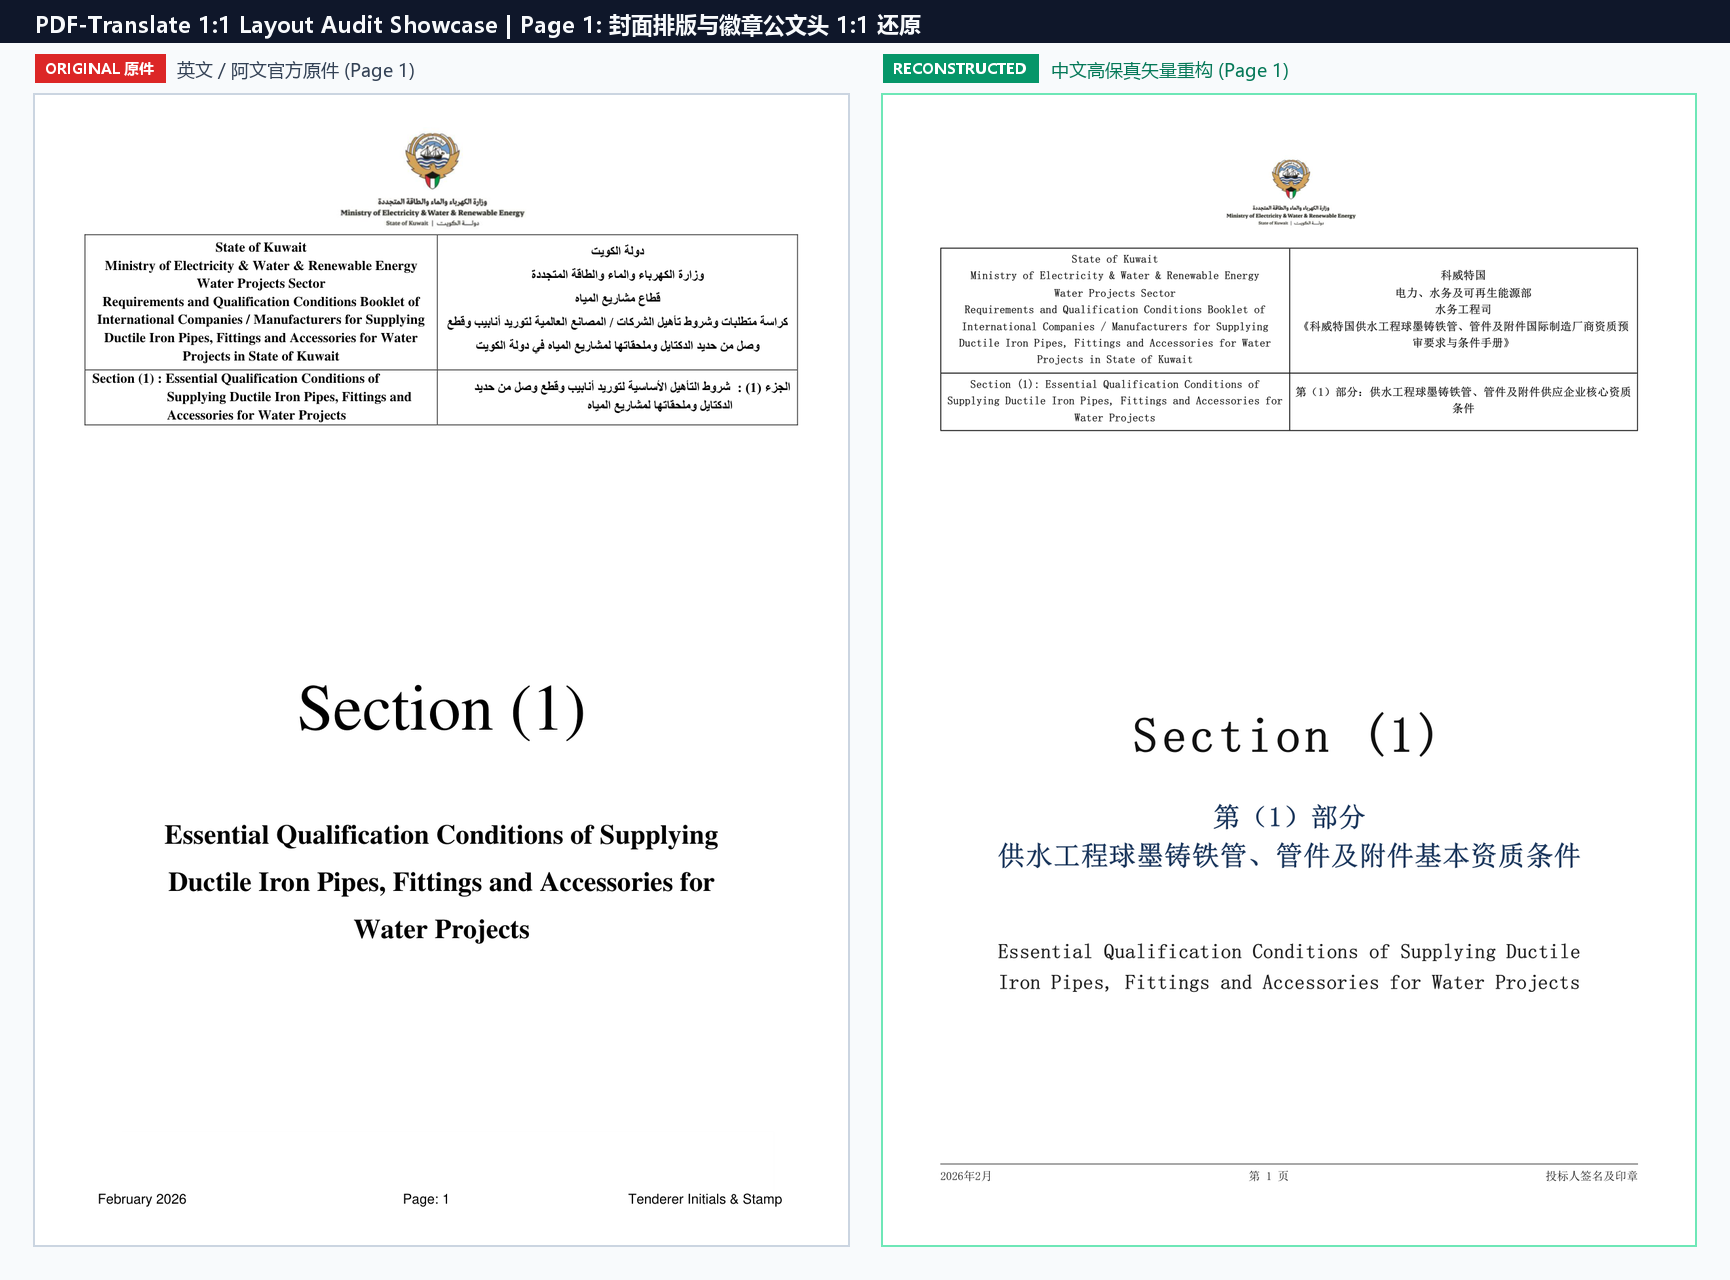
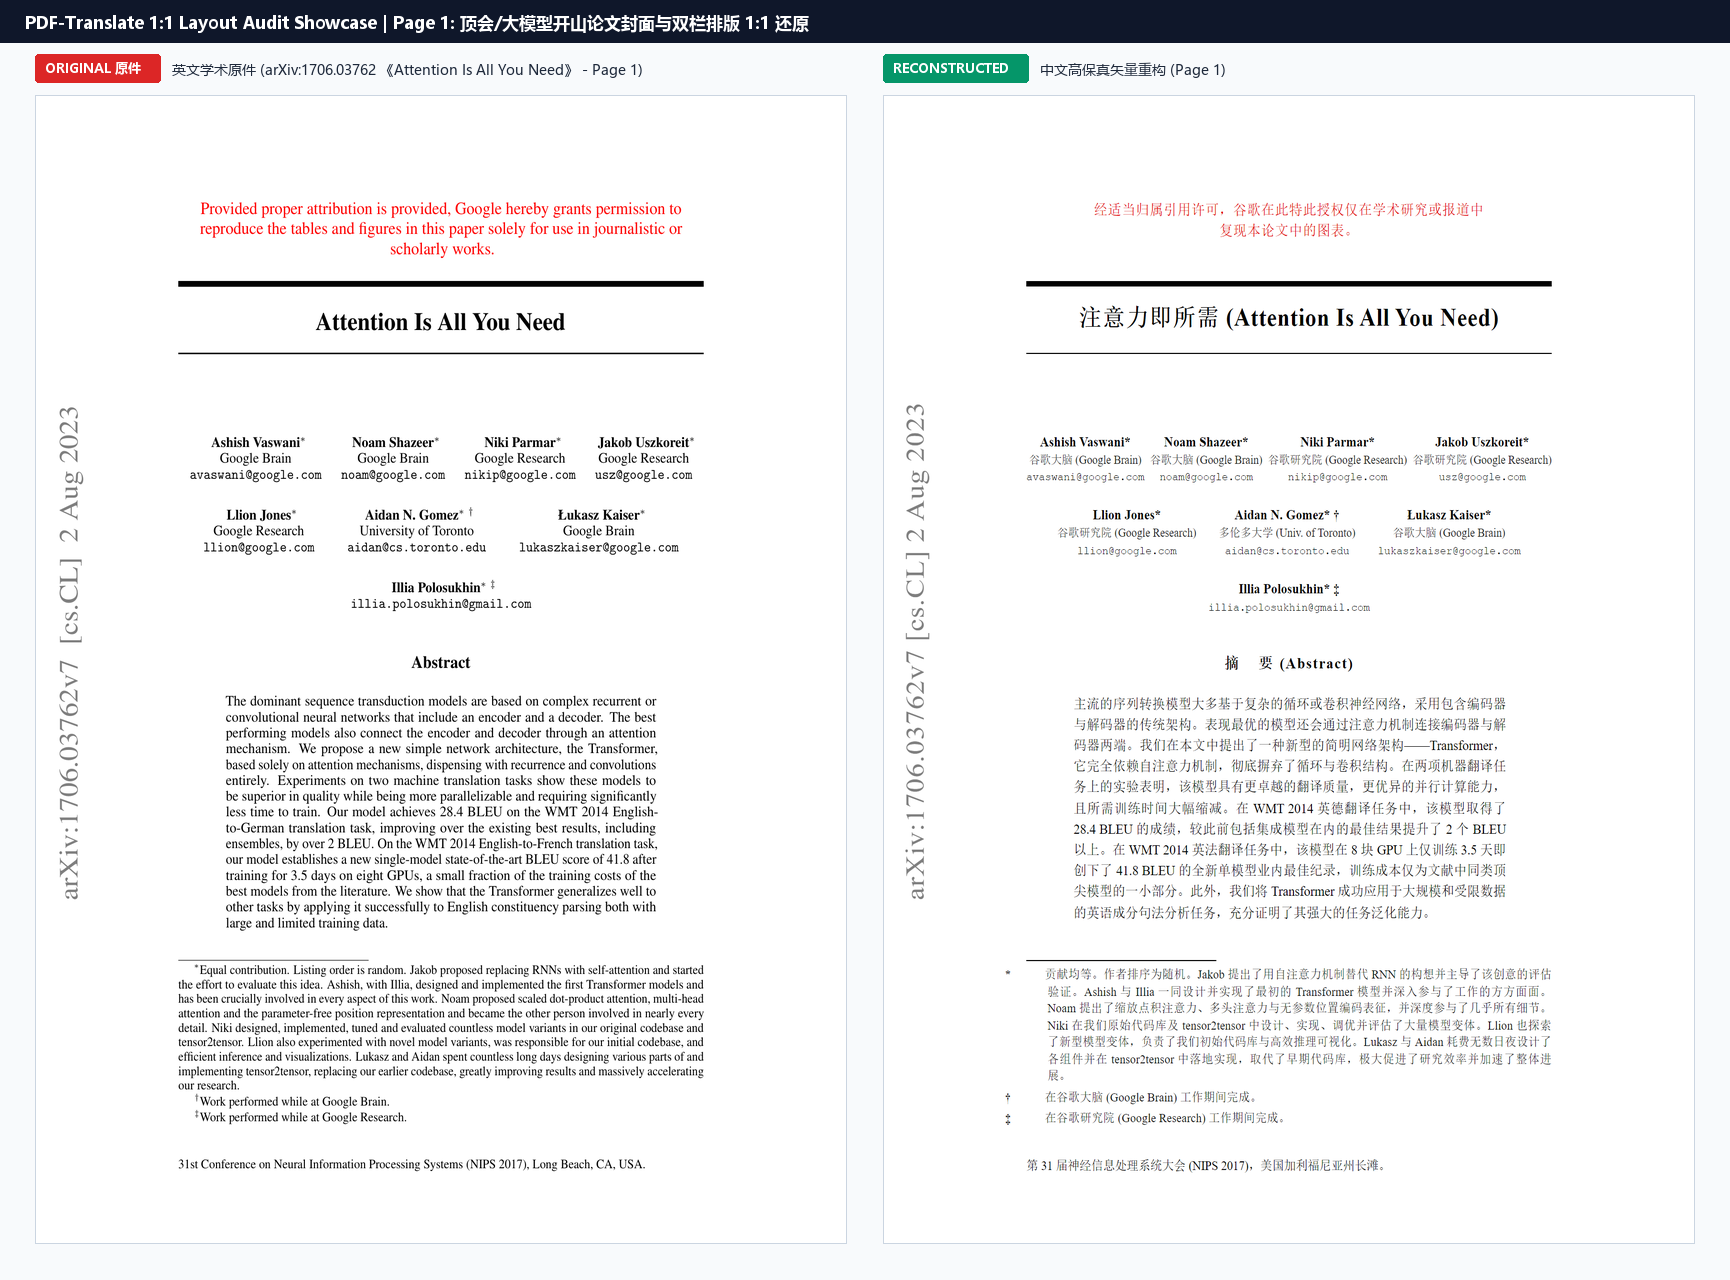
docs: replace sensitive demo images with Attention Is All You Need arXiv showcase

diff --git a/README_EN.md b/README_EN.md
@@ -25,13 +25,11 @@
 
 ## 📸 Before & After Showcase
 
-> **Real-World Case Study**: Official Procurement & Prequalification Booklet for Water Engineering (Middle East MEWRE official government tender), featuring multilingual dual-column letterhead, precision dotted leaders, and legal clauses.
+> **Real-World Case Study**: The landmark foundation paper of modern deep learning, *Attention Is All You Need* (arXiv:1706.03762), featuring multi-author affiliation grids, precision margin watermark alignment, dual-column abstract, mathematical footnotes, and strict height overflow protection.
 
-### 1. Cover & Official Letterhead (1:1 Reconstruction)
+### Academic Paper Cover & Dual-Column Layout (1:1 Reconstruction)
 ![Cover Comparison](assets/comparison_cover.png)
 
-### 2. Table of Contents with Dotted Leaders (Pixel-Perfect Alignment)
-![TOC Comparison](assets/comparison_toc.png)
 
 ---
 

diff --git a/README.md b/README.md
@@ -25,13 +25,11 @@
 
 ## 📸 效果对比展示 (Before & After Showcase)
 
-> **实测案例**：某国官方供水工程《国际制造商资质预审要求与条件手册》（MEWRE 官方公文标书），包含多语言双栏表头、目录点线对齐及严肃条款。
+> **实测案例**：现代深度学习与大模型开山之作《Attention Is All You Need》（arXiv:1706.03762），包含多作者机构矩阵、精准边栏学术水印、双栏摘要、数学脚注及严格版面限高。
 
-### 1. 封面与公文表头 1:1 还原 (Cover & Official Header)
+### 顶会学术论文封面与双栏排版 1:1 还原 (Paper Cover & Dual-Column Layout)
 ![Cover Comparison](assets/comparison_cover.png)
 
-### 2. 复杂目录点线对齐与多语对照 (Table of Contents & Dotted Leaders)
-![TOC Comparison](assets/comparison_toc.png)
 
 ---
 
